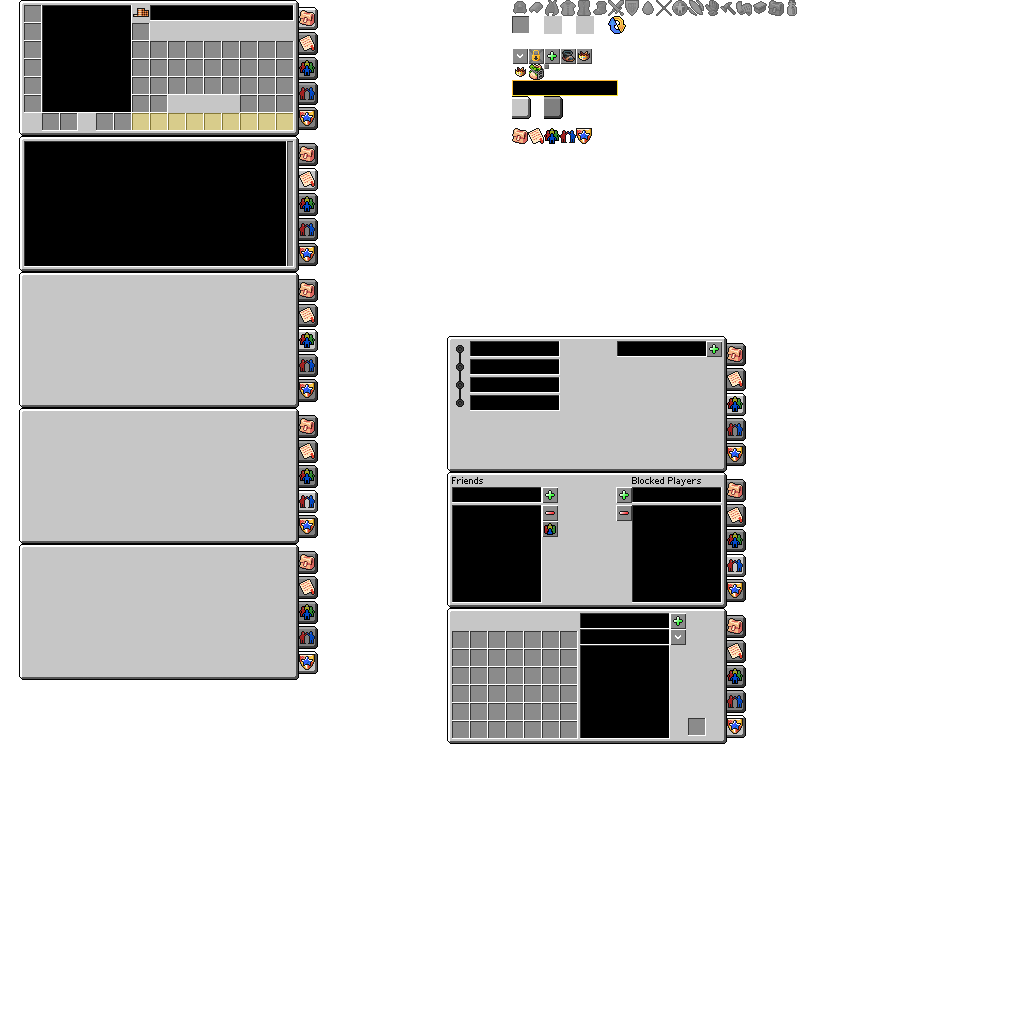
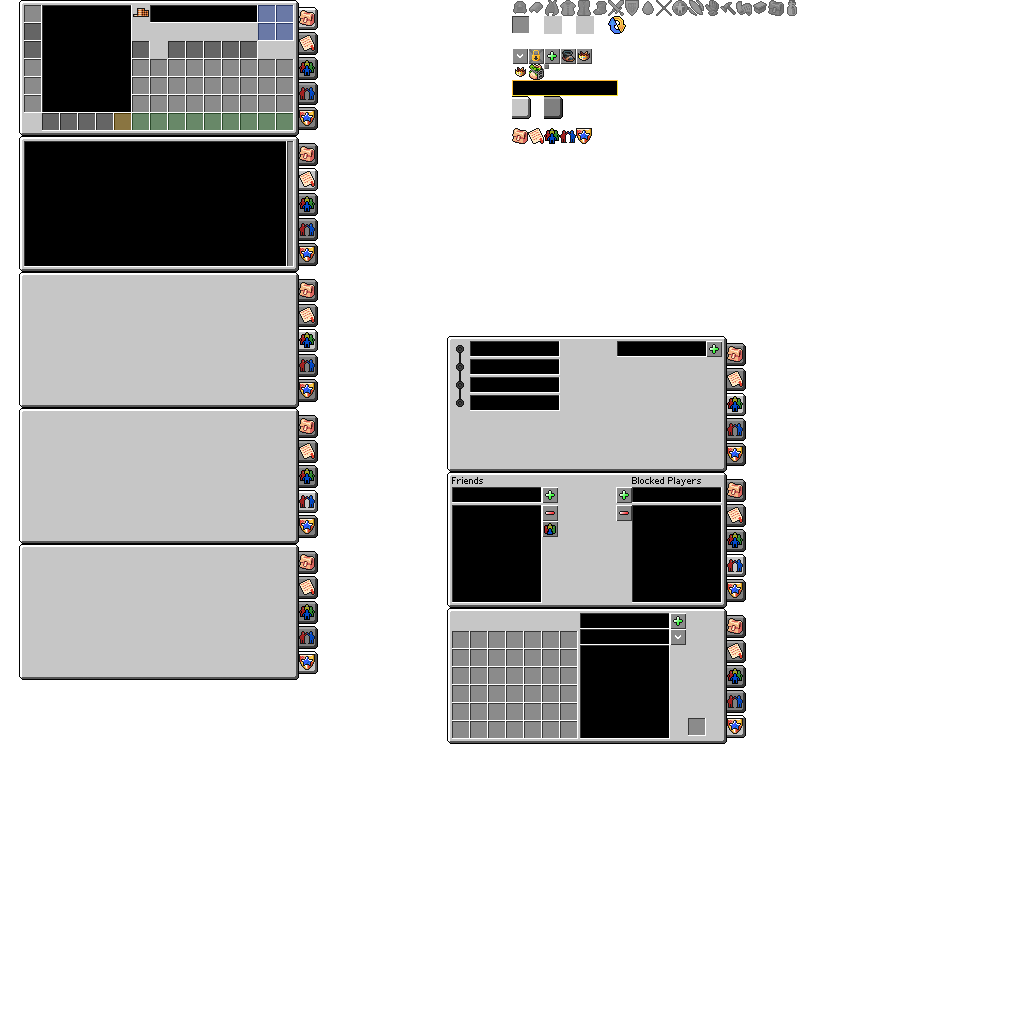
Rehashed inventory a bit, still tinkering

Changed region(s): [[0.125, 0.0, 0.3125, 0.0625], [0.0312, 0.0938, 0.2812, 0.125], [0.0, 0.0312, 0.0625, 0.0625]]

diff --git a/src/main/java/com/fantasticsource/tiamatinventory/inventory/TiamatInventoryContainer.java b/src/main/java/com/fantasticsource/tiamatinventory/inventory/TiamatInventoryContainer.java
@@ -53,14 +53,14 @@ public class TiamatInventoryContainer extends Container
         //Weaponset 1
         //Index 0 - 1
         //Internal index 0 and 1 (tiamat)
-        addSlotToContainer(new FilteredSlot(tiamatPlayerInventory, 0, 43, 114, TEXTURE, TEXTURE_W, TEXTURE_H, 608, 0, false, WEAPON_SLOT_STACK_LIMIT, stack -> getSlot(1).getStack().isEmpty() || (!isTwoHanded(stack) && !isTwoHanded(getSlot(1).getStack()))));
-        addSlotToContainer(new FilteredSlot(tiamatPlayerInventory, 1, 61, 114, TEXTURE, TEXTURE_W, TEXTURE_H, 624, 0, false, WEAPON_SLOT_STACK_LIMIT, stack -> getSlot(0).getStack().isEmpty() || (!isTwoHanded(stack) && !isTwoHanded(getSlot(0).getStack()))));
+        addSlotToContainer(new FilteredSlot(tiamatPlayerInventory, 0, 61, 114, TEXTURE, TEXTURE_W, TEXTURE_H, 608, 0, false, WEAPON_SLOT_STACK_LIMIT, stack -> getSlot(1).getStack().isEmpty() || (!isTwoHanded(stack) && !isTwoHanded(getSlot(1).getStack()))));
+        addSlotToContainer(new FilteredSlot(tiamatPlayerInventory, 1, 43, 114, TEXTURE, TEXTURE_W, TEXTURE_H, 624, 0, false, WEAPON_SLOT_STACK_LIMIT, stack -> getSlot(0).getStack().isEmpty() || (!isTwoHanded(stack) && !isTwoHanded(getSlot(0).getStack()))));
 
         //Weaponset 2
         //Index 2 - 3
         //Internal index 2 and 3 (tiamat)
         addSlotToContainer(new FilteredSlot(tiamatPlayerInventory, 2, 97, 114, TEXTURE, TEXTURE_W, TEXTURE_H, 608, 0, false, WEAPON_SLOT_STACK_LIMIT, stack -> getSlot(3).getStack().isEmpty() || (!isTwoHanded(stack) && !isTwoHanded(getSlot(3).getStack()))));
-        addSlotToContainer(new FilteredSlot(tiamatPlayerInventory, 3, 115, 114, TEXTURE, TEXTURE_W, TEXTURE_H, 624, 0, false, WEAPON_SLOT_STACK_LIMIT, stack -> getSlot(2).getStack().isEmpty() || (!isTwoHanded(stack) && !isTwoHanded(getSlot(2).getStack()))));
+        addSlotToContainer(new FilteredSlot(tiamatPlayerInventory, 3, 79, 114, TEXTURE, TEXTURE_W, TEXTURE_H, 624, 0, false, WEAPON_SLOT_STACK_LIMIT, stack -> getSlot(2).getStack().isEmpty() || (!isTwoHanded(stack) && !isTwoHanded(getSlot(2).getStack()))));
 
         //"Cargo" inventory
         //Index 4 - 30
@@ -69,7 +69,7 @@ public class TiamatInventoryContainer extends Container
         {
             for (int xx = 0; xx < 9; ++xx)
             {
-                addSlotToContainer(new BetterSlot(playerInventory, xx + (yy + 1) * 9, 133 + xx * 18, 42 + yy * 18, TEXTURE, TEXTURE_W, TEXTURE_H, -16, -16));
+                addSlotToContainer(new BetterSlot(playerInventory, xx + (yy + 1) * 9, 133 + xx * 18, 60 + yy * 18, TEXTURE, TEXTURE_W, TEXTURE_H, -16, -16));
             }
         }
 
@@ -94,31 +94,36 @@ public class TiamatInventoryContainer extends Container
         //Internal index 6 - 8 (tiamat)
         for (int xx = 0; xx < 3; xx++)
         {
-            addSlotToContainer(new FilteredSlot(tiamatPlayerInventory, 6 + xx, 241 + xx * 18, 96, TEXTURE, TEXTURE_W, TEXTURE_H, 784, 0, true, 1, stack -> stack.hasTagCompound() && Slottings.slotTypeValidForItemstack(stack, "Tiamat Quick Item", player)));
+            addSlotToContainer(new FilteredSlot(tiamatPlayerInventory, 6 + xx, 169 + xx * 18, 42, TEXTURE, TEXTURE_W, TEXTURE_H, 784, 0, true, 1, stack -> stack.hasTagCompound() && Slottings.slotTypeValidForItemstack(stack, "Tiamat Quick Item", player)));
         }
 
         //Backpack slot
         //Index 40
         //Internal index 9 (tiamat)
-        addSlotToContainer(new FilteredSlot(tiamatPlayerInventory, 9, 133, 24, TEXTURE, TEXTURE_W, TEXTURE_H, 768, 0, true, 1, stack -> stack.hasTagCompound() && Slottings.slotTypeValidForItemstack(stack, "Tiamat Backpack", player)));
+        addSlotToContainer(new FilteredSlot(tiamatPlayerInventory, 9, 133, 42, TEXTURE, TEXTURE_W, TEXTURE_H, 768, 0, true, 1, stack -> stack.hasTagCompound() && Slottings.slotTypeValidForItemstack(stack, "Tiamat Backpack", player)));
 
         //Pet slot
         //Index 41
         //Internal index 10 (tiamat)
-        addSlotToContainer(new FilteredSlot(tiamatPlayerInventory, 10, 151, 96, TEXTURE, TEXTURE_W, TEXTURE_H, 640, 0, true, 1, stack -> stack.hasTagCompound() && Slottings.slotTypeValidForItemstack(stack, "Tiamat Pet", player)));
+        addSlotToContainer(new FilteredSlot(tiamatPlayerInventory, 10, 223, 42, TEXTURE, TEXTURE_W, TEXTURE_H, 640, 0, true, 1, stack -> stack.hasTagCompound() && Slottings.slotTypeValidForItemstack(stack, "Tiamat Pet", player)));
 
         //Deck slot
         //Index 42
         //Internal index 11 (tiamat)
-        addSlotToContainer(new FilteredSlot(tiamatPlayerInventory, 11, 133, 96, TEXTURE, TEXTURE_W, TEXTURE_H, 752, 0, true, 1, stack -> stack.hasTagCompound() && Slottings.slotTypeValidForItemstack(stack, "Tiamat Deck", player)));
+        addSlotToContainer(new FilteredSlot(tiamatPlayerInventory, 11, 241, 42, TEXTURE, TEXTURE_W, TEXTURE_H, 752, 0, true, 1, stack -> stack.hasTagCompound() && Slottings.slotTypeValidForItemstack(stack, "Tiamat Deck", player)));
 
         //Hotbar slots (for creative usage or if hotbar is enabled)
         //Index 43 - 51
         //Internal index 0 - 8 (vanilla)
         for (int xx = 0; xx < 9; ++xx)
         {
-            addSlotToContainer(new BetterSlot(playerInventory, xx, 133 + xx * 18, 114, TEXTURE, TEXTURE_W, TEXTURE_H, -16, -16));
+            addSlotToContainer(new BetterSlot(playerInventory, xx, 133 + xx * 18, 114, TEXTURE, TEXTURE_W, TEXTURE_H, 608, 0));
         }
+
+        //Vanilla offhand slot
+        //Index 52
+        //Internal index 40 (vanilla)
+        addSlotToContainer(new BetterSlot(playerInventory, 40, 115, 114, TEXTURE, TEXTURE_W, TEXTURE_H, 624, 0));
     }
 
     public static boolean isTwoHanded(ItemStack stack)
